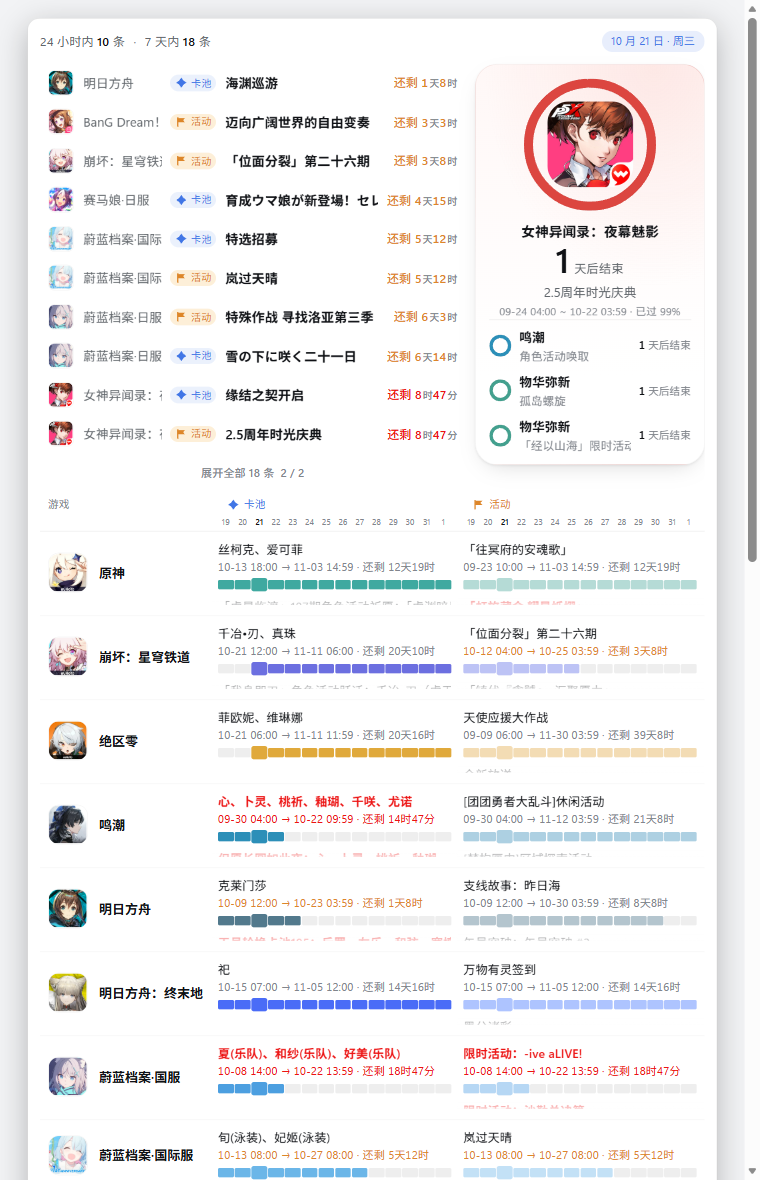
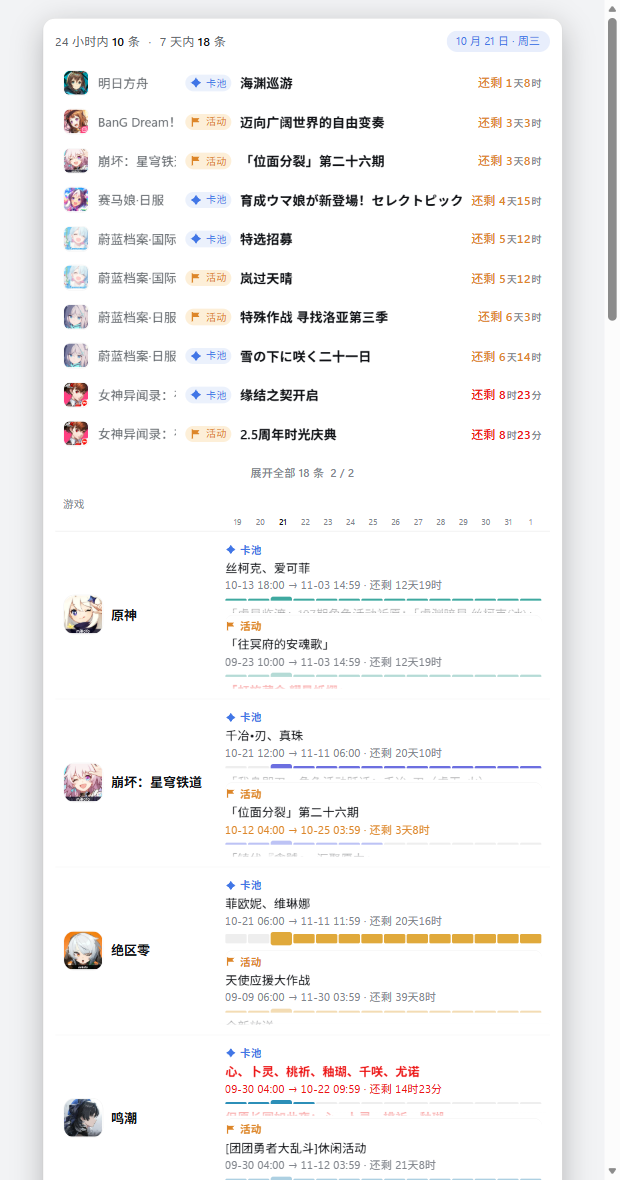
feat(panel): v0.2.8 新面板改版 —— 顶部区域二选一 + 卡池/活动上下排列
按需求改版实验性新面板，**宽度 690px → 520px**。组件用两个可选 prop 实现（不传则与上游一致），
样式全部追加在 schedule.css 末尾的「扩展侧改版」区块、只挂修饰类，不改任何一条移植来的规则。

**① 顶部区域二选一（topMode: "recent" | "slot"）**
- 近期列表与留白卡改到**同一个位置**显示，不再并排（原来卡片浮在右侧压住表格）
- 两个 DOM 都挂载、用 CSS display:none 隐藏未选中的那个 ⇒ 结构不动、可随时切回
- 设置页「实验特性」新增「顶部区域」下拉（键 panelTop，默认近期列表）

**② 卡池/活动上下排列（stacked: true）**
- 每款游戏两行：第一行卡池、第二行活动；左侧游戏名跨两行（152px 列宽）
- 每行新增「卡池 / 活动」小标（含类型图标与配色），各自保留 14 天迷你条与倒计时
- 表头与刻度改为单栏（两栏表头与第二根刻度在 stacked 模式下隐藏）

**取舍**
- 高度换宽度：整表约 3900px（原约 2400px），需滚动；换来宽度减半
- 游戏名最多两行、超出省略

**验证**
- 夹具渲染零报错；两种 topMode 分别取证：urgent display none / slot 460×401 居中
- 23 行 × 2 行结构、46 个小标、游戏名均单行（152px 列宽可容纳「崩坏：星穹铁道」）
- 全链通过；zip 18 条目 CRC 通过

版本 0.2.8；商店提交待 0.2.6 审核结束。

Changed region(s): [[0.0306, 0.0305, 0.95, 1.0], [0.9806, 0.0, 1.0, 0.4881]]

diff --git a/src/schedule/schedule-view.js b/src/schedule/schedule-view.js
@@ -10,6 +10,11 @@
 // view-helpers.js 引入（那边是逐函数移植的同一份实现）。
 //
 // ⚠ 改动本文件前请优先改上游（插件）对应区段再重新移植，否则两边会漂移。
+//
+// ⚠ 本文件已含**扩展侧改版**（不属于上游）：ScheduleView 多两个可选 prop ——
+//    · topMode: "recent" | "slot"  顶部区域在「近期列表」与「留白卡」之间二选一
+//    · stacked: true               游戏表改为每款游戏两行（卡池 / 活动）以节省宽度
+//    两者都不传时行为与上游一致。改动点均以「扩展侧改版」注释标出。
 
 import * as react from "react";
 import * as react_jsx_runtime from "react/jsx-runtime";
@@ -728,7 +733,16 @@ function scheduleGlanceSegs(within24, within7) {
 		{ label: "7 天内 ", n: within7, tail: " 条" }
 	];
 }
-function ScheduleView({ games, now, s, colorMap, refreshing, onRefresh, lastRefreshText, scrapeInfo, scrapeLines }) {
+function ScheduleView({ games, now, s, colorMap, refreshing, onRefresh, lastRefreshText, scrapeInfo, scrapeLines, topMode, stacked }) {
+	// ══ 扩展侧改版（2026-10-21，有意偏离上游）══════════════════════════════════
+	// topMode = "recent" | "slot"
+	//   顶部区域**同一个位置**只显示一样：近期列表 或 留白卡（设置页二选一）。
+	//   实现上两个都挂载、用 CSS 隐藏未选中的那个 —— 组件结构不动，行为保持可回退。
+	// stacked = true
+	//   游戏表改为「每款游戏两行」：第一行卡池、第二行活动，左侧游戏名跨两行。
+	//   ⚠ 目的是**节省宽度**（原版是 游戏 | 卡池 | 活动 三列并排）。
+	const TOP_SLOT = topMode === "slot";
+	const STACKED = stacked === true;
 	// 每游戏主题色覆盖表（面板侧；设置组件里另有一份同名的）。
 	// ⚠ 必须在这里也定义一次：下面的行 --g 与留白卡 slotAccent 都在本组件里用它，
 	//    漏了就是 ReferenceError ⇒ 整个面板（连带插件 UI）挂不上。
@@ -844,14 +858,23 @@ function ScheduleView({ games, now, s, colorMap, refreshing, onRefresh, lastRefr
 			]
 		});
 	};
+	// 上下排列时，每行左侧的「卡池 / 活动」小标（含类型图标）
+	const capOf = (side) => (0, react_jsx_runtime.jsxs)("div", {
+		className: "gacha-cal-sched-linecap", "data-t": side,
+		children: [
+			scheduleKindIcon(side, "gacha-cal-sched-tic"),
+			(0, react_jsx_runtime.jsx)("span", { children: side === "gacha" ? "卡池" : "活动" })
+		]
+	});
 	// 表格里的一格：名称 + 「档期 · 状态」+ 14 天迷你条。**不折叠不点开**：同格多条时露一条 + 「另有 N 条」
-	const cellView = (g, side) => {
+	const cellView = (g, side, withCap) => {
 		const isG = side === "gacha";
 		const list = cells.get(g.id + ":" + side) || [];
 		if (!list.length) {
 			return (0, react_jsx_runtime.jsxs)("div", {
 				className: "gacha-cal-sched-cell gacha-cal-sched-cell--none", "data-t": side,
 				children: [
+					withCap ? capOf(side) : null,
 					(0, react_jsx_runtime.jsx)("div", { className: "gacha-cal-sched-cn", children: "—" }),
 					(0, react_jsx_runtime.jsx)("div", { className: "gacha-cal-sched-cm gacha-cal-sched-num", children: isG ? "该来源无卡池数据" : "该来源无活动数据" }),
 					scheduleBars(null, days)
@@ -907,7 +930,7 @@ function ScheduleView({ games, now, s, colorMap, refreshing, onRefresh, lastRefr
 			onPointerLeave: (e) => slotLeave(e.currentTarget),
 
 			children: [
-				itemOf(it, "first"),
+				withCap ? capOf(side) : null, itemOf(it, "first"),
 				rest.length ? (0, react_jsx_runtime.jsx)("div", {
 					className: "gacha-cal-sched-rest",
 					onWheel: slotWheel,
@@ -921,7 +944,7 @@ function ScheduleView({ games, now, s, colorMap, refreshing, onRefresh, lastRefr
 	// 这样"鼠标向上移动"时，上一行正在展开的底板一定压得住下一行尚未收回的内容 ——
 	// 不依赖"谁在悬停"（那是会随时间变化的，会出现两格抢层级、下面的字压住上面的底板）。
 	const rowOf = (g, i) => (0, react_jsx_runtime.jsxs)("div", {
-		className: "gacha-cal-sched-trow",
+		className: "gacha-cal-sched-trow" + (STACKED ? " gacha-cal-sched-trow--stacked" : ""),
 		key: g.id,
 		style: { "--g": scheduleGameColor(g, gameColorMap), "--z": String(900 - i) },
 		children: [
@@ -929,8 +952,9 @@ function ScheduleView({ games, now, s, colorMap, refreshing, onRefresh, lastRefr
 				scheduleIcon("gacha-cal-sched-gic", g, 38),
 				(0, react_jsx_runtime.jsx)("span", { className: "gacha-cal-sched-gn", children: g.name })
 			] }),
-			cellView(g, "gacha"),
-			cellView(g, "event")
+			STACKED
+				? (0, react_jsx_runtime.jsx)("div", { className: "gacha-cal-sched-lines", children: [cellView(g, "gacha", true), cellView(g, "event", true)] })
+				: [cellView(g, "gacha"), cellView(g, "event")]
 		]
 	});
 
@@ -970,7 +994,7 @@ function ScheduleView({ games, now, s, colorMap, refreshing, onRefresh, lastRefr
 			(0, react_jsx_runtime.jsx)("span", { className: "gacha-cal-sched-sp", children: (0, react_jsx_runtime.jsx)("span", { className: "gacha-cal-sched-pill gacha-cal-sched-pill--live", children: datePill }) })
 		] }),
 		// ③ 「近期」：跨游戏、按紧迫度、全列出；右侧是「下一个截止」卡（见上）
-		(0, react_jsx_runtime.jsxs)("div", { className: "gacha-cal-sched-recent", children: [
+		(0, react_jsx_runtime.jsxs)("div", { className: "gacha-cal-sched-recent gacha-cal-sched-recent--" + (TOP_SLOT ? "slot" : "recent"), children: [
 			(0, react_jsx_runtime.jsxs)("div", {
 				className: "gacha-cal-sched-urgent",
 				onPointerEnter: () => setNearHeld(true),
@@ -995,13 +1019,13 @@ function ScheduleView({ games, now, s, colorMap, refreshing, onRefresh, lastRefr
 			(0, react_jsx_runtime.jsx)(SlotCard, { list: all, now: now })
 		] }),
 		// ④ 游戏表：**没有区块标题**，列表头直接跟在后面
-		(0, react_jsx_runtime.jsxs)("div", { className: "gacha-cal-sched-tcap", children: [
+		(0, react_jsx_runtime.jsxs)("div", { className: "gacha-cal-sched-tcap" + (STACKED ? " gacha-cal-sched-tcap--stacked" : ""), children: [
 			(0, react_jsx_runtime.jsx)("span", { children: "游戏" }),
 			(0, react_jsx_runtime.jsxs)("span", { className: "gacha-cal-sched-th", "data-t": "gacha", children: [scheduleKindIcon("gacha", "gacha-cal-sched-tic"), "卡池"] }),
 			(0, react_jsx_runtime.jsxs)("span", { className: "gacha-cal-sched-th", "data-t": "event", children: [scheduleKindIcon("event", "gacha-cal-sched-tic"), "活动"] })
 		] }),
 		// 两栏共用同一根 14 天轴：刻度只画一次（左右各一份，列宽与迷你条完全一致）
-		(0, react_jsx_runtime.jsxs)("div", { className: "gacha-cal-sched-rulerrow", children: [
+		(0, react_jsx_runtime.jsxs)("div", { className: "gacha-cal-sched-rulerrow" + (STACKED ? " gacha-cal-sched-rulerrow--stacked" : ""), children: [
 			(0, react_jsx_runtime.jsx)("span", {}), ruler(), ruler()
 		] }),
 		(0, react_jsx_runtime.jsx)("div", { className: "gacha-cal-sched-theadline" }),

diff --git a/src/schedule/schedule.css b/src/schedule/schedule.css
@@ -1,4 +1,4 @@
-/* 新日程面板（实验特性）—— 一比一样式移植自 DSH 插件
+/* 新日程面板（实验特性）—— 一比一样式移植自 DSH 插件
    gacha-calendar 的 src/client/70-styles.js。
    原样式大量使用 DSH 宿主的主题变量 --dsw-alias-*；浏览器扩展里没有宿主，
    故按 DSH 主题包的真实取值补齐兜底（浅色为默认，深色走 prefers-color-scheme）。
@@ -603,3 +603,69 @@
 			   ⚠ B4b：.gacha-cal-spin（面板刷新按钮的 .8s 无限旋转）原先不在任何 reduce 块里。
 			   只把 animation 置 none；名称/时长/延迟/缓动/作用目标与非 reduce 行为一律不动。 */
 			@media (prefers-reduced-motion:reduce){.gacha-cal-sched-nearpg,.gacha-cal-slot-row,.gacha-cal-marq .gacha-cal-inner,.gacha-cal-settings-name.gacha-cal-marq .gacha-cal-inner,.gacha-cal-spin{animation:none}}
+
+/* ══════════════════════════════════════════════════════════════════════════
+   扩展侧改版（2026-10-21）—— 以下规则**不属于上游**，全部挂在修饰类上，
+   不改动上面任何一条移植来的规则，因此关掉开关时版式与上游逐值一致。
+
+   ① 顶部区域二选一：同一个位置只显示「近期列表」或「留白卡」
+   ② 游戏表上下排列：每款游戏两行（卡池 / 活动），左侧游戏名跨两行 —— 以节省宽度
+   ══════════════════════════════════════════════════════════════════════════ */
+
+/* ── ① 顶部区域二选一 ── */
+/* 两个都挂载，用 display:none 隐藏未选中的那个（结构不变、可随时切回） */
+.gacha-cal-sched-recent--recent .gacha-cal-sched-urgent { flex: 1 1 auto; }
+.gacha-cal-sched-recent--recent .gacha-cal-sched-slot { display: none; }
+.gacha-cal-sched-recent--slot .gacha-cal-sched-urgent { display: none; }
+.gacha-cal-sched-recent--slot { justify-content: center; }
+/* 卡片单独占位时不要被拉伸成整行宽（保持卡片比例），居中显示 */
+.gacha-cal-sched-recent--slot .gacha-cal-sched-slot { flex: 0 1 460px; max-width: 100%; }
+
+/* ── ② 游戏表上下排列 ── */
+/* 表头：只剩「游戏」一列；两栏表头与第二根刻度隐藏 */
+.gacha-cal-sched-tcap--stacked { grid-template-columns: 152px 1fr; }
+.gacha-cal-sched-tcap--stacked .gacha-cal-sched-th { display: none; }
+.gacha-cal-sched-rulerrow--stacked { grid-template-columns: 152px 1fr; }
+.gacha-cal-sched-rulerrow--stacked .gacha-cal-sched-ruler:last-child { display: none; }
+
+/* 行：游戏名一列 + 右侧上下两行 */
+.gacha-cal-sched-trow--stacked {
+	grid-template-columns: 152px 1fr;
+	gap: 0 10px;
+}
+.gacha-cal-sched-lines {
+	display: grid;
+	grid-template-rows: auto auto;
+	min-width: 0;
+	gap: 2px;
+}
+/* 每行左侧的「卡池 / 活动」小标 */
+.gacha-cal-sched-linecap {
+	display: inline-flex;
+	align-items: center;
+	gap: 4px;
+	margin-bottom: 1px;
+	font-size: 10.5px;
+	font-weight: 600;
+	line-height: 1;
+	color: var(--dsw-alias-label-tertiary, #81858c);
+}
+.gacha-cal-sched-linecap[data-t="gacha"] { color: var(--dsw-alias-state-business-primary, #4176e6); }
+.gacha-cal-sched-linecap[data-t="event"] { color: var(--dsw-alias-state-warn-label, #dd8629); }
+.gacha-cal-sched-linecap .gacha-cal-sched-tic { width: 11px; height: 11px; }
+/* 两行之间加一条细分隔线（第一行不加） */
+.gacha-cal-sched-trow--stacked .gacha-cal-sched-cell {
+	padding: 3px 0 5px;
+	border-top: 1px solid var(--dsw-alias-border-l1, #0000000a);
+}
+.gacha-cal-sched-trow--stacked .gacha-cal-sched-cell:first-child { border-top: none; padding-top: 1px; }
+/* 游戏名在窄列里可能放不下：允许两行显示，别撑破列宽 */
+.gacha-cal-sched-trow--stacked .gacha-cal-sched-gm { align-self: center; gap: 8px; }
+.gacha-cal-sched-trow--stacked .gacha-cal-sched-gn {
+	white-space: normal;
+	line-height: 1.3;
+	display: -webkit-box;
+	-webkit-line-clamp: 2;
+	-webkit-box-orient: vertical;
+	overflow: hidden;
+}

diff --git a/src/options.js b/src/options.js
@@ -34,6 +34,7 @@ const el = {
 	allowedHosts: document.getElementById("allowed-hosts"),
 	autoRefresh: document.getElementById("autoRefresh"),
 	newPanel: document.getElementById("newPanel"),
+	panelTop: document.getElementById("panelTop"),
 	refreshMinutes: document.getElementById("refreshMinutes"),
 	resetOrder: document.getElementById("resetOrder"),
 	removedCard: document.getElementById("removed-card"),
@@ -58,7 +59,9 @@ let cfg = {
 	autoRefresh: true,
 	refreshMinutes: 24 * 60,
 	// 实验特性：新日程面板（默认关，与 DSH 插件同键名同语义）
-	newPanel: false
+	newPanel: false,
+	// 新面板顶部区域二选一："recent" 近期列表 / "slot" 留白卡
+	panelTop: "recent"
 };
 /** 生效中的条目（core 已按 removed 过滤）元信息。 */
 let allGames = [];
@@ -168,6 +171,7 @@ function render() {
 	el.count.textContent = String(allGames.length);
 	el.autoRefresh.checked = cfg.autoRefresh !== false;
 	if (el.newPanel) el.newPanel.checked = cfg.newPanel === true;
+	if (el.panelTop) el.panelTop.value = cfg.panelTop === "slot" ? "slot" : "recent";
 	renderRefreshOptions();
 
 	const frag = document.createDocumentFragment();
@@ -466,6 +470,7 @@ async function runSelfCheck() {
 el.autoRefresh.addEventListener("change", () => commit({ autoRefresh: el.autoRefresh.checked }));
 // 实验特性：切换后由 background 同步工具栏行为（开启=直接打开日程页面，关闭=弹 popup）
 if (el.newPanel) el.newPanel.addEventListener("change", () => commit({ newPanel: el.newPanel.checked }));
+if (el.panelTop) el.panelTop.addEventListener("change", () => commit({ panelTop: el.panelTop.value === "slot" ? "slot" : "recent" }));
 el.refreshMinutes.addEventListener("change", () => commit({ refreshMinutes: Number(el.refreshMinutes.value) }));
 el.resetOrder.addEventListener("click", () => commit({ order: null }));
 el.selfCheck.addEventListener("click", () => runSelfCheck());
@@ -504,7 +509,8 @@ el.selfCheck.addEventListener("click", () => runSelfCheck());
 			"customEventUrls",
 			"autoRefresh",
 			"refreshMinutes",
-			"newPanel"
+			"newPanel",
+			"panelTop"
 		])
 	]);
 	allGames = games;
@@ -521,7 +527,8 @@ el.selfCheck.addEventListener("click", () => runSelfCheck());
 		),
 		autoRefresh: stored.autoRefresh !== false,
 		refreshMinutes: Number(stored.refreshMinutes) || 24 * 60,
-		newPanel: stored.newPanel === true
+		newPanel: stored.newPanel === true,
+		panelTop: stored.panelTop === "slot" ? "slot" : "recent"
 	};
 	render();
 })().catch((err) => {

diff --git a/src/panel.js b/src/panel.js
@@ -28,6 +28,8 @@ const state = {
 	refreshMinutes: DEFAULT_REFRESH_MINUTES,
 	autoRefresh: true,
 	gameColors: "{}",
+	/** 顶部区域二选一："recent" 近期列表 / "slot" 留白卡（设置页切换） */
+	panelTop: "recent",
 	scrapeInfo: "",
 	scrapeLines: [],
 	refreshing: false
@@ -95,7 +97,7 @@ async function loadState() {
 		engine.getCached(),
 		readKeys([
 			"order", "hidden", "shown", "removed", "customEntries", "customUrls", "customEventUrls",
-			"gameColors", "refreshMinutes", "autoRefresh", "lastSource"
+			"gameColors", "panelTop", "refreshMinutes", "autoRefresh", "lastSource"
 		])
 	]);
 	const order = Array.isArray(cfg.order) ? cfg.order : [];
@@ -109,6 +111,7 @@ async function loadState() {
 	state.refreshMinutes = Number(cfg.refreshMinutes) || DEFAULT_REFRESH_MINUTES;
 	state.autoRefresh = cfg.autoRefresh !== false;
 	state.gameColors = typeof cfg.gameColors === "string" ? cfg.gameColors : "{}";
+	state.panelTop = cfg.panelTop === "slot" ? "slot" : "recent";
 
 	// 底部横幅：优先用本轮刷新的结果，没有就用缓存里的最近一次结果算出来
 	const ordered = state.games.map((g) => ({ id: g.id, name: g.name }));
@@ -135,7 +138,10 @@ function render() {
 		onRefresh: doRefresh,
 		lastRefreshText: state.refreshedAt ? new Date(state.refreshedAt).toLocaleString() : "—",
 		scrapeInfo: state.scrapeInfo,
-		scrapeLines: state.scrapeLines
+		scrapeLines: state.scrapeLines,
+		// 扩展侧改版的两个开关（见 schedule-view.js 顶部说明）
+		topMode: state.panelTop,
+		stacked: true
 	}));
 }
 

diff --git a/src/options.html b/src/options.html
@@ -1,4 +1,4 @@
-<!doctype html>
+<!doctype html>
 <html lang="zh-CN">
 	<head>
 		<meta charset="utf-8" />
@@ -32,6 +32,17 @@
 
 			<section class="card">
 				<h2>实验特性</h2>
+				<div class="row">
+					<label class="lbl" for="panelTop">顶部区域</label>
+					<select id="panelTop">
+						<option value="recent">近期列表</option>
+						<option value="slot">留白卡</option>
+					</select>
+					<span class="hint">
+						新日程面板顶部<strong>同一个位置</strong>显示哪一块：「近期列表」是按紧迫度排序的在期条目；
+						「留白卡」是当前最紧迫那一条的大卡片。二选一，默认近期列表。
+					</span>
+				</div>
 				<div class="row">
 					<label class="lbl" for="newPanel">新日程面板</label>
 					<input id="newPanel" type="checkbox" />

diff --git a/src/panel.html b/src/panel.html
@@ -1,4 +1,4 @@
-<!doctype html>
+<!doctype html>
 <html lang="zh-CN">
 	<head>
 		<meta charset="utf-8" />
@@ -34,7 +34,7 @@
 			   独立页面里它应当是普通文档流容器：取消定位与限高，尺寸由设计宽度决定。 */
 			#root.gacha-cal-pop {
 				position: static;
-				width: 690px;
+				width: 520px;
 				max-width: 100%;
 				max-height: none;
 				height: auto;

diff --git a/README_Dev.md b/README_Dev.md
@@ -172,6 +172,27 @@ npm run test:domains       # 测守卫自身：该失败时失败、该通过时
 > 📌 React 必须按生产版打包：`build.mjs` 里传了 `--define:process.env.NODE_ENV="production"`。
 > 漏了它，esbuild 会保留开发版分支，`panel.js` 会从 ~700KB 涨到 ~1.5MB 并带调试告警。
 
+#### 扩展侧改版（不属于上游）
+
+在移植版基础上，本扩展对面板做了两处**有意偏离上游**的版式改动，均以组件可选 prop 实现
+（不传时行为与上游一致）：
+
+| prop | 取值 | 作用 |
+|---|---|---|
+| `topMode` | `"recent"` / `"slot"` | 顶部区域**同一个位置**二选一：近期列表 / 留白卡。两个 DOM 都挂载，用 CSS `display:none` 隐藏未选中的那个 |
+| `stacked` | `true` | 游戏表改为**每款游戏两行**（第一行卡池、第二行活动），左侧游戏名跨两行 —— 目的是节省宽度 |
+
+配套内容：
+
+- 开关来自设置页「实验特性」：`newPanel`（总开关）与 `panelTop`（顶部区域二选一）
+- 版式 CSS 追加在 `schedule.css` **末尾**的「扩展侧改版」区块，全部挂在修饰类上
+  （`--stacked` / `--recent` / `--slot` / `.gacha-cal-sched-lines` / `.gacha-cal-sched-linecap`），
+  不改动任何一条移植来的规则
+- 面板宽度从上游的 690px 收窄到 **520px**（`panel.html` 的 `#root` 宽度），游戏名列 152px
+- 上下排列时每行左侧新增「卡池 / 活动」小标（`capOf`），含类型图标与配色
+
+> 组件文件顶部与改动点都标了「扩展侧改版」注释，便于日后与上游比对。
+
 
 ## 测试
 

diff --git a/README.md b/README.md
@@ -99,11 +99,14 @@ Chrome / Edge 通用（Manifest V3）。
 </p>
 
 - **总览行**：24 小时内 / 7 天内的条目数，右侧日期胶囊
-- **近期列表**：按紧迫度排序的在期条目，每 4 秒轮换一批，可「展开全部」
-- **日程表**：每款游戏一行，卡池 / 活动两栏，各带 14 天迷你进度条与倒计时
-- **留白卡**：右侧悬浮卡，显示最紧迫的那条及后续几条
+- **顶部区域（可切换）**：设置页「顶部区域」可二选一 ——
+  - **近期列表**（默认）：按紧迫度排序的在期条目，每 4 秒轮换一批，可「展开全部」
+  - **留白卡**：当前最紧迫那一条的大卡片（大图标 + 进度环 + 剩余天数 + 后续几条）
+- **日程表**：每款游戏**两行**——第一行卡池、第二行活动，各自带类型小标、起止时间、
+  倒计时与 **14 天迷你进度条**；左侧游戏名跨两行
+- **失败横条**：某来源抓不到时集中在底部提示，可一键重试
 
-该视图需要较大的画布（整表 23 行约 2500px 高），弹出窗口放不下，因此改为独立页面。
+该视图需要较大的画布（整表 23 行约 3900px 高），弹出窗口放不下，因此改为独立页面。
 **默认关闭**；关闭时行为与之前完全一致。
 
 ## 隐私

diff --git a/store/PUBLISHING.md b/store/PUBLISHING.md
@@ -256,6 +256,7 @@ Partner Center → **Analytics** 页有三个标签：`Weekly users` / `Installs
 | 安装量 | 0；曝光（Impressions）4 次（首周） |
 | **0.2.6（core 0.12.5）** | **已提交送审（In review，2026-10-21）**；线上仍 0.2.5，用户不受影响 |
 | **0.2.7（新日程面板）** | **已构建并在 GitHub 发布**，待 0.2.6 审完后提交商店 |
+| **0.2.8（面板改版）** | **已构建并在 GitHub 发布**：顶部区域二选一 + 卡池/活动上下排列 |
 | 商店文案补更新 | ✅ **已过审生效**（zh 643 / en 1728 字符，已不再列举 Bestdori） |
 
 > 0.2.6 涉及**新增 3 个主机权限**（`gametora.com`、`gh-proxy.com`、
